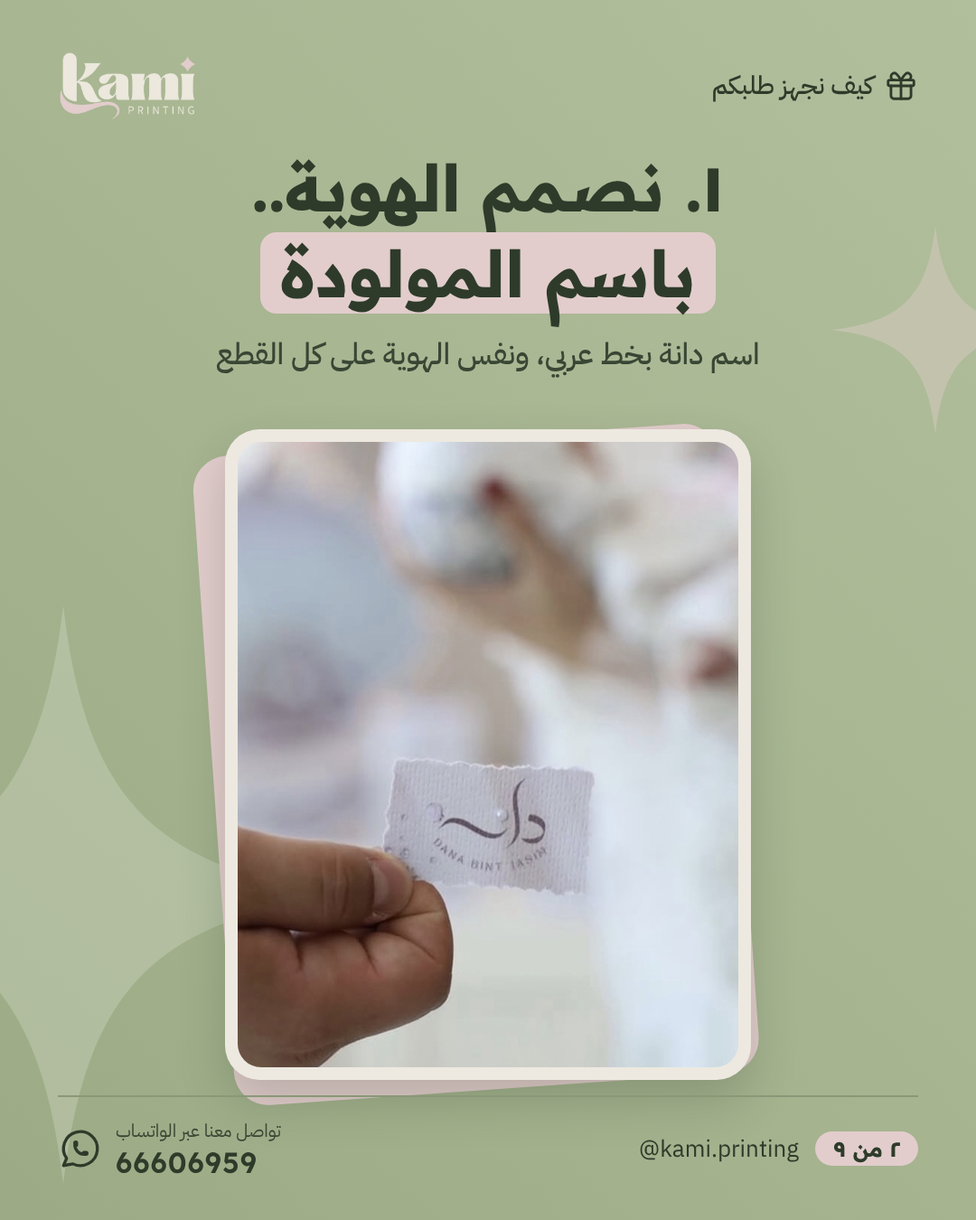
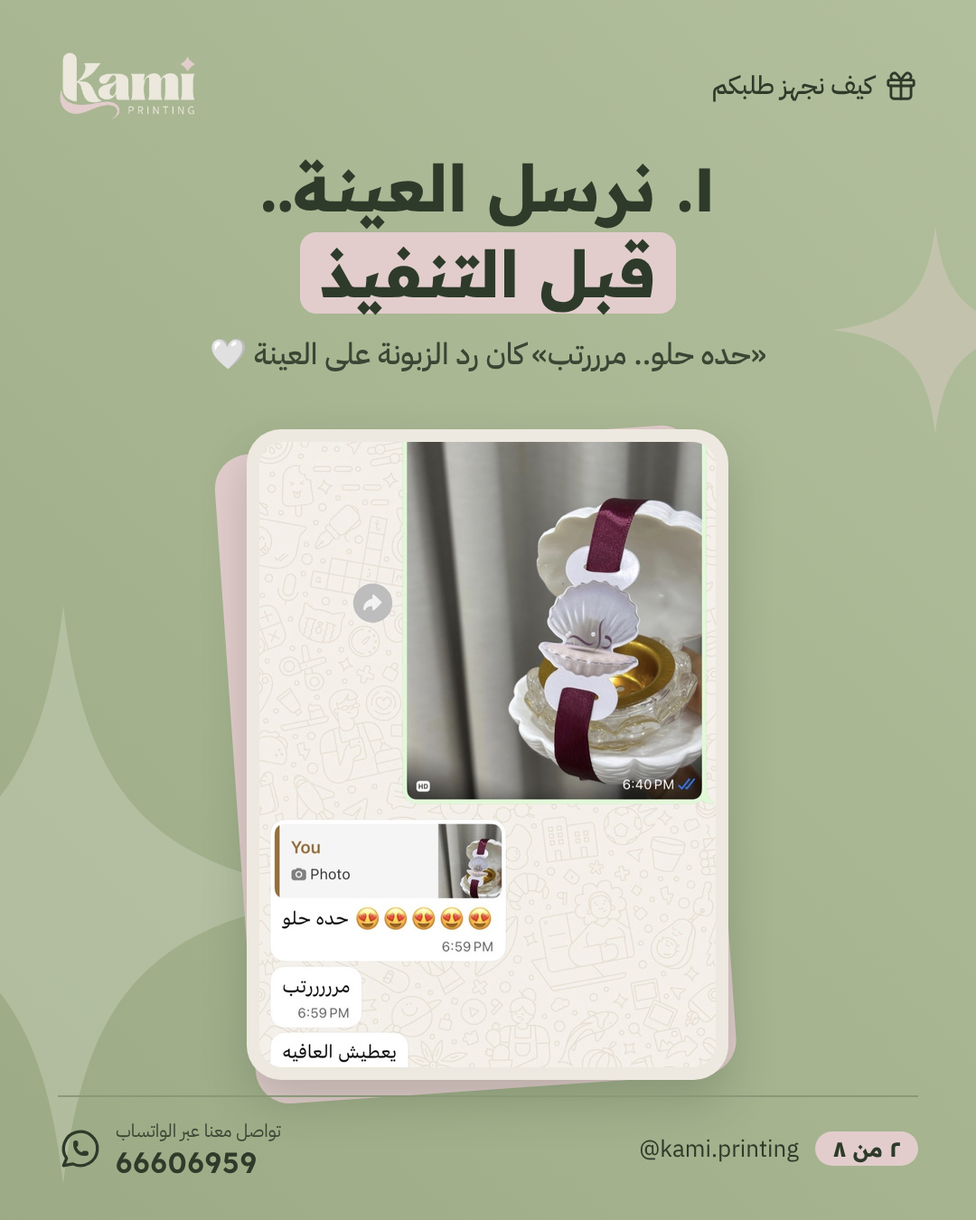
كيف نجهز طلبكم تعديل 2: بدون سلايد الهوية
Claude-Session: https://claude.ai/code/session_01EDga3ExHWSoRVjSYima4hU

Changed region(s): [[0.1833, 0.3422, 0.7944, 0.9022], [0.2139, 0.1244, 0.7944, 0.3111]]

diff --git a/templates/works-how-dana.html b/templates/works-how-dana.html
@@ -43,44 +43,39 @@ h1{font-size:72px}
   <div class="card" style="left:249px;top:455px;width:582px;height:720px"></div>
   <div class="frame" style="left:249px;top:455px;width:582px;height:720px"><img src="photos/works/dana-shell-fit.jpg"></div>
   <div class="swipe">اسحبوا ←</div><footer><div class="fw"><svg viewBox="0 0 24 24" fill="none" stroke="currentColor" stroke-width="1.6" stroke-linecap="round" stroke-linejoin="round">
-<path d="M3 21l1.65-3.8a9 9 0 1 1 3.4 2.9L3 21"/><path d="M9 10a.5.5 0 0 0 1 0V9a.5.5 0 0 0-1 0v1a5 5 0 0 0 5 5h1a.5.5 0 0 0 0-1h-1a.5.5 0 0 0 0 1"/></svg><div><small>تواصل معنا عبر الواتساب</small><b>66606959</b></div></div><div class="fr"><span class="h">@kami.printing</span><span class="cnt">١ من ٩</span></div></footer></section><section class="post" id="how-02"><svg class="st st1" viewBox="0 0 100 100"><path d="M50 0 C54 34 66 46 100 50 C66 54 54 66 50 100 C46 66 34 54 0 50 C34 46 46 34 50 0Z"/></svg><svg class="st st2" viewBox="0 0 100 100"><path d="M50 0 C54 34 66 46 100 50 C66 54 54 66 50 100 C46 66 34 54 0 50 C34 46 46 34 50 0Z"/></svg><header><img src="../brand/logo-en-cream.png"><div class="chip"><svg viewBox="0 0 24 24" fill="none" stroke="currentColor" stroke-width="1.8" stroke-linecap="round" stroke-linejoin="round"><rect x="3" y="8" width="18" height="4" rx="1"/><path d="M12 8v13"/><path d="M19 12v7a2 2 0 0 1-2 2H7a2 2 0 0 1-2-2v-7"/><path d="M7.5 8a2.5 2.5 0 0 1 0-5C9 3 12 8 12 8s3-5 4.5-5a2.5 2.5 0 0 1 0 5"/></svg><span>كيف نجهز طلبكم</span></div></header>
-  <div class="txt"><h1>١. نصمم الهوية..<br><span class="hl">باسم المولودة</span></h1><div class="cap">اسم دانة بخط عربي، ونفس الهوية على كل القطع</div></div>
-  <div class="card" style="left:249px;top:475px;width:582px;height:720px"></div>
-  <div class="frame" style="left:249px;top:475px;width:582px;height:720px"><img src="photos/works/dana-tag-fit.jpg"></div>
-  <footer><div class="fw"><svg viewBox="0 0 24 24" fill="none" stroke="currentColor" stroke-width="1.6" stroke-linecap="round" stroke-linejoin="round">
-<path d="M3 21l1.65-3.8a9 9 0 1 1 3.4 2.9L3 21"/><path d="M9 10a.5.5 0 0 0 1 0V9a.5.5 0 0 0-1 0v1a5 5 0 0 0 5 5h1a.5.5 0 0 0 0-1h-1a.5.5 0 0 0 0 1"/></svg><div><small>تواصل معنا عبر الواتساب</small><b>66606959</b></div></div><div class="fr"><span class="h">@kami.printing</span><span class="cnt">٢ من ٩</span></div></footer></section><section class="post" id="how-03"><svg class="st st1" viewBox="0 0 100 100"><path d="M50 0 C54 34 66 46 100 50 C66 54 54 66 50 100 C46 66 34 54 0 50 C34 46 46 34 50 0Z"/></svg><svg class="st st2" viewBox="0 0 100 100"><path d="M50 0 C54 34 66 46 100 50 C66 54 54 66 50 100 C46 66 34 54 0 50 C34 46 46 34 50 0Z"/></svg><header><img src="../brand/logo-en-cream.png"><div class="chip"><svg viewBox="0 0 24 24" fill="none" stroke="currentColor" stroke-width="1.8" stroke-linecap="round" stroke-linejoin="round"><rect x="3" y="8" width="18" height="4" rx="1"/><path d="M12 8v13"/><path d="M19 12v7a2 2 0 0 1-2 2H7a2 2 0 0 1-2-2v-7"/><path d="M7.5 8a2.5 2.5 0 0 1 0-5C9 3 12 8 12 8s3-5 4.5-5a2.5 2.5 0 0 1 0 5"/></svg><span>كيف نجهز طلبكم</span></div></header>
-  <div class="txt"><h1>٢. نرسل العينة..<br><span class="hl">قبل التنفيذ</span></h1><div class="cap">«حده حلو.. مرررتب» كان رد الزبونة على العينة 🤍</div></div>
+<path d="M3 21l1.65-3.8a9 9 0 1 1 3.4 2.9L3 21"/><path d="M9 10a.5.5 0 0 0 1 0V9a.5.5 0 0 0-1 0v1a5 5 0 0 0 5 5h1a.5.5 0 0 0 0-1h-1a.5.5 0 0 0 0 1"/></svg><div><small>تواصل معنا عبر الواتساب</small><b>66606959</b></div></div><div class="fr"><span class="h">@kami.printing</span><span class="cnt">١ من ٨</span></div></footer></section><section class="post" id="how-02"><svg class="st st1" viewBox="0 0 100 100"><path d="M50 0 C54 34 66 46 100 50 C66 54 54 66 50 100 C46 66 34 54 0 50 C34 46 46 34 50 0Z"/></svg><svg class="st st2" viewBox="0 0 100 100"><path d="M50 0 C54 34 66 46 100 50 C66 54 54 66 50 100 C46 66 34 54 0 50 C34 46 46 34 50 0Z"/></svg><header><img src="../brand/logo-en-cream.png"><div class="chip"><svg viewBox="0 0 24 24" fill="none" stroke="currentColor" stroke-width="1.8" stroke-linecap="round" stroke-linejoin="round"><rect x="3" y="8" width="18" height="4" rx="1"/><path d="M12 8v13"/><path d="M19 12v7a2 2 0 0 1-2 2H7a2 2 0 0 1-2-2v-7"/><path d="M7.5 8a2.5 2.5 0 0 1 0-5C9 3 12 8 12 8s3-5 4.5-5a2.5 2.5 0 0 1 0 5"/></svg><span>كيف نجهز طلبكم</span></div></header>
+  <div class="txt"><h1>١. نرسل العينة..<br><span class="hl">قبل التنفيذ</span></h1><div class="cap">«حده حلو.. مرررتب» كان رد الزبونة على العينة 🤍</div></div>
   <div class="card" style="left:273px;top:475px;width:533px;height:720px"></div>
   <div class="frame" style="left:273px;top:475px;width:533px;height:720px"><img src="photos/works/dana-whatsapp-fit.jpg"></div>
   <footer><div class="fw"><svg viewBox="0 0 24 24" fill="none" stroke="currentColor" stroke-width="1.6" stroke-linecap="round" stroke-linejoin="round">
-<path d="M3 21l1.65-3.8a9 9 0 1 1 3.4 2.9L3 21"/><path d="M9 10a.5.5 0 0 0 1 0V9a.5.5 0 0 0-1 0v1a5 5 0 0 0 5 5h1a.5.5 0 0 0 0-1h-1a.5.5 0 0 0 0 1"/></svg><div><small>تواصل معنا عبر الواتساب</small><b>66606959</b></div></div><div class="fr"><span class="h">@kami.printing</span><span class="cnt">٣ من ٩</span></div></footer></section><section class="post" id="how-04"><svg class="st st1" viewBox="0 0 100 100"><path d="M50 0 C54 34 66 46 100 50 C66 54 54 66 50 100 C46 66 34 54 0 50 C34 46 46 34 50 0Z"/></svg><svg class="st st2" viewBox="0 0 100 100"><path d="M50 0 C54 34 66 46 100 50 C66 54 54 66 50 100 C46 66 34 54 0 50 C34 46 46 34 50 0Z"/></svg><header><img src="../brand/logo-en-cream.png"><div class="chip"><svg viewBox="0 0 24 24" fill="none" stroke="currentColor" stroke-width="1.8" stroke-linecap="round" stroke-linejoin="round"><rect x="3" y="8" width="18" height="4" rx="1"/><path d="M12 8v13"/><path d="M19 12v7a2 2 0 0 1-2 2H7a2 2 0 0 1-2-2v-7"/><path d="M7.5 8a2.5 2.5 0 0 1 0-5C9 3 12 8 12 8s3-5 4.5-5a2.5 2.5 0 0 1 0 5"/></svg><span>كيف نجهز طلبكم</span></div></header>
-  <div class="txt"><h1>٣. نطبع ونقص..<br><span class="hl">بالكريكت</span></h1><div class="cap">تاقات على شكل المحارة، مقصوصة بدقة</div></div>
+<path d="M3 21l1.65-3.8a9 9 0 1 1 3.4 2.9L3 21"/><path d="M9 10a.5.5 0 0 0 1 0V9a.5.5 0 0 0-1 0v1a5 5 0 0 0 5 5h1a.5.5 0 0 0 0-1h-1a.5.5 0 0 0 0 1"/></svg><div><small>تواصل معنا عبر الواتساب</small><b>66606959</b></div></div><div class="fr"><span class="h">@kami.printing</span><span class="cnt">٢ من ٨</span></div></footer></section><section class="post" id="how-03"><svg class="st st1" viewBox="0 0 100 100"><path d="M50 0 C54 34 66 46 100 50 C66 54 54 66 50 100 C46 66 34 54 0 50 C34 46 46 34 50 0Z"/></svg><svg class="st st2" viewBox="0 0 100 100"><path d="M50 0 C54 34 66 46 100 50 C66 54 54 66 50 100 C46 66 34 54 0 50 C34 46 46 34 50 0Z"/></svg><header><img src="../brand/logo-en-cream.png"><div class="chip"><svg viewBox="0 0 24 24" fill="none" stroke="currentColor" stroke-width="1.8" stroke-linecap="round" stroke-linejoin="round"><rect x="3" y="8" width="18" height="4" rx="1"/><path d="M12 8v13"/><path d="M19 12v7a2 2 0 0 1-2 2H7a2 2 0 0 1-2-2v-7"/><path d="M7.5 8a2.5 2.5 0 0 1 0-5C9 3 12 8 12 8s3-5 4.5-5a2.5 2.5 0 0 1 0 5"/></svg><span>كيف نجهز طلبكم</span></div></header>
+  <div class="txt"><h1>٢. نطبع ونقص..<br><span class="hl">بالكريكت</span></h1><div class="cap">تاقات على شكل المحارة، مقصوصة بدقة</div></div>
   <div class="card" style="left:249px;top:475px;width:582px;height:720px"></div>
   <div class="frame" style="left:249px;top:475px;width:582px;height:720px"><img src="photos/works/dana-cutting-fit.jpg"></div>
   <footer><div class="fw"><svg viewBox="0 0 24 24" fill="none" stroke="currentColor" stroke-width="1.6" stroke-linecap="round" stroke-linejoin="round">
-<path d="M3 21l1.65-3.8a9 9 0 1 1 3.4 2.9L3 21"/><path d="M9 10a.5.5 0 0 0 1 0V9a.5.5 0 0 0-1 0v1a5 5 0 0 0 5 5h1a.5.5 0 0 0 0-1h-1a.5.5 0 0 0 0 1"/></svg><div><small>تواصل معنا عبر الواتساب</small><b>66606959</b></div></div><div class="fr"><span class="h">@kami.printing</span><span class="cnt">٤ من ٩</span></div></footer></section><section class="post" id="how-05"><svg class="st st1" viewBox="0 0 100 100"><path d="M50 0 C54 34 66 46 100 50 C66 54 54 66 50 100 C46 66 34 54 0 50 C34 46 46 34 50 0Z"/></svg><svg class="st st2" viewBox="0 0 100 100"><path d="M50 0 C54 34 66 46 100 50 C66 54 54 66 50 100 C46 66 34 54 0 50 C34 46 46 34 50 0Z"/></svg><header><img src="../brand/logo-en-cream.png"><div class="chip"><svg viewBox="0 0 24 24" fill="none" stroke="currentColor" stroke-width="1.8" stroke-linecap="round" stroke-linejoin="round"><rect x="3" y="8" width="18" height="4" rx="1"/><path d="M12 8v13"/><path d="M19 12v7a2 2 0 0 1-2 2H7a2 2 0 0 1-2-2v-7"/><path d="M7.5 8a2.5 2.5 0 0 1 0-5C9 3 12 8 12 8s3-5 4.5-5a2.5 2.5 0 0 1 0 5"/></svg><span>كيف نجهز طلبكم</span></div></header>
-  <div class="txt"><h1>٤. نركّب يدوي..<br><span class="hl">قطعة قطعة</span></h1><div class="cap">كل تاق يدخل فيه الشريط باليد</div></div>
+<path d="M3 21l1.65-3.8a9 9 0 1 1 3.4 2.9L3 21"/><path d="M9 10a.5.5 0 0 0 1 0V9a.5.5 0 0 0-1 0v1a5 5 0 0 0 5 5h1a.5.5 0 0 0 0-1h-1a.5.5 0 0 0 0 1"/></svg><div><small>تواصل معنا عبر الواتساب</small><b>66606959</b></div></div><div class="fr"><span class="h">@kami.printing</span><span class="cnt">٣ من ٨</span></div></footer></section><section class="post" id="how-04"><svg class="st st1" viewBox="0 0 100 100"><path d="M50 0 C54 34 66 46 100 50 C66 54 54 66 50 100 C46 66 34 54 0 50 C34 46 46 34 50 0Z"/></svg><svg class="st st2" viewBox="0 0 100 100"><path d="M50 0 C54 34 66 46 100 50 C66 54 54 66 50 100 C46 66 34 54 0 50 C34 46 46 34 50 0Z"/></svg><header><img src="../brand/logo-en-cream.png"><div class="chip"><svg viewBox="0 0 24 24" fill="none" stroke="currentColor" stroke-width="1.8" stroke-linecap="round" stroke-linejoin="round"><rect x="3" y="8" width="18" height="4" rx="1"/><path d="M12 8v13"/><path d="M19 12v7a2 2 0 0 1-2 2H7a2 2 0 0 1-2-2v-7"/><path d="M7.5 8a2.5 2.5 0 0 1 0-5C9 3 12 8 12 8s3-5 4.5-5a2.5 2.5 0 0 1 0 5"/></svg><span>كيف نجهز طلبكم</span></div></header>
+  <div class="txt"><h1>٣. نركّب يدوي..<br><span class="hl">قطعة قطعة</span></h1><div class="cap">كل تاق يدخل فيه الشريط باليد</div></div>
   <div class="card" style="left:249px;top:475px;width:581px;height:720px"></div>
   <div class="frame" style="left:249px;top:475px;width:581px;height:720px"><img src="photos/works/dana-ribbons-fit.jpg"></div>
   <footer><div class="fw"><svg viewBox="0 0 24 24" fill="none" stroke="currentColor" stroke-width="1.6" stroke-linecap="round" stroke-linejoin="round">
-<path d="M3 21l1.65-3.8a9 9 0 1 1 3.4 2.9L3 21"/><path d="M9 10a.5.5 0 0 0 1 0V9a.5.5 0 0 0-1 0v1a5 5 0 0 0 5 5h1a.5.5 0 0 0 0-1h-1a.5.5 0 0 0 0 1"/></svg><div><small>تواصل معنا عبر الواتساب</small><b>66606959</b></div></div><div class="fr"><span class="h">@kami.printing</span><span class="cnt">٥ من ٩</span></div></footer></section><section class="post" id="how-06"><svg class="st st1" viewBox="0 0 100 100"><path d="M50 0 C54 34 66 46 100 50 C66 54 54 66 50 100 C46 66 34 54 0 50 C34 46 46 34 50 0Z"/></svg><svg class="st st2" viewBox="0 0 100 100"><path d="M50 0 C54 34 66 46 100 50 C66 54 54 66 50 100 C46 66 34 54 0 50 C34 46 46 34 50 0Z"/></svg><header><img src="../brand/logo-en-cream.png"><div class="chip"><svg viewBox="0 0 24 24" fill="none" stroke="currentColor" stroke-width="1.8" stroke-linecap="round" stroke-linejoin="round"><rect x="3" y="8" width="18" height="4" rx="1"/><path d="M12 8v13"/><path d="M19 12v7a2 2 0 0 1-2 2H7a2 2 0 0 1-2-2v-7"/><path d="M7.5 8a2.5 2.5 0 0 1 0-5C9 3 12 8 12 8s3-5 4.5-5a2.5 2.5 0 0 1 0 5"/></svg><span>كيف نجهز طلبكم</span></div></header>
-  <div class="txt"><h1>٥. نكمّل التفاصيل..<br><span class="hl">بعبارتكم</span></h1><div class="cap">«أنا أول فرحة لماما وبابا» على ورق بحواف مقصوصة</div></div>
+<path d="M3 21l1.65-3.8a9 9 0 1 1 3.4 2.9L3 21"/><path d="M9 10a.5.5 0 0 0 1 0V9a.5.5 0 0 0-1 0v1a5 5 0 0 0 5 5h1a.5.5 0 0 0 0-1h-1a.5.5 0 0 0 0 1"/></svg><div><small>تواصل معنا عبر الواتساب</small><b>66606959</b></div></div><div class="fr"><span class="h">@kami.printing</span><span class="cnt">٤ من ٨</span></div></footer></section><section class="post" id="how-05"><svg class="st st1" viewBox="0 0 100 100"><path d="M50 0 C54 34 66 46 100 50 C66 54 54 66 50 100 C46 66 34 54 0 50 C34 46 46 34 50 0Z"/></svg><svg class="st st2" viewBox="0 0 100 100"><path d="M50 0 C54 34 66 46 100 50 C66 54 54 66 50 100 C46 66 34 54 0 50 C34 46 46 34 50 0Z"/></svg><header><img src="../brand/logo-en-cream.png"><div class="chip"><svg viewBox="0 0 24 24" fill="none" stroke="currentColor" stroke-width="1.8" stroke-linecap="round" stroke-linejoin="round"><rect x="3" y="8" width="18" height="4" rx="1"/><path d="M12 8v13"/><path d="M19 12v7a2 2 0 0 1-2 2H7a2 2 0 0 1-2-2v-7"/><path d="M7.5 8a2.5 2.5 0 0 1 0-5C9 3 12 8 12 8s3-5 4.5-5a2.5 2.5 0 0 1 0 5"/></svg><span>كيف نجهز طلبكم</span></div></header>
+  <div class="txt"><h1>٤. نكمّل التفاصيل..<br><span class="hl">بعبارتكم</span></h1><div class="cap">«أنا أول فرحة لماما وبابا» على ورق بحواف مقصوصة</div></div>
   <div class="card" style="left:249px;top:475px;width:582px;height:720px"></div>
   <div class="frame" style="left:249px;top:475px;width:582px;height:720px"><img src="photos/works/dana-note-fit.jpg"></div>
   <footer><div class="fw"><svg viewBox="0 0 24 24" fill="none" stroke="currentColor" stroke-width="1.6" stroke-linecap="round" stroke-linejoin="round">
-<path d="M3 21l1.65-3.8a9 9 0 1 1 3.4 2.9L3 21"/><path d="M9 10a.5.5 0 0 0 1 0V9a.5.5 0 0 0-1 0v1a5 5 0 0 0 5 5h1a.5.5 0 0 0 0-1h-1a.5.5 0 0 0 0 1"/></svg><div><small>تواصل معنا عبر الواتساب</small><b>66606959</b></div></div><div class="fr"><span class="h">@kami.printing</span><span class="cnt">٦ من ٩</span></div></footer></section><section class="post" id="how-07"><svg class="st st1" viewBox="0 0 100 100"><path d="M50 0 C54 34 66 46 100 50 C66 54 54 66 50 100 C46 66 34 54 0 50 C34 46 46 34 50 0Z"/></svg><svg class="st st2" viewBox="0 0 100 100"><path d="M50 0 C54 34 66 46 100 50 C66 54 54 66 50 100 C46 66 34 54 0 50 C34 46 46 34 50 0Z"/></svg><header><img src="../brand/logo-en-cream.png"><div class="chip"><svg viewBox="0 0 24 24" fill="none" stroke="currentColor" stroke-width="1.8" stroke-linecap="round" stroke-linejoin="round"><rect x="3" y="8" width="18" height="4" rx="1"/><path d="M12 8v13"/><path d="M19 12v7a2 2 0 0 1-2 2H7a2 2 0 0 1-2-2v-7"/><path d="M7.5 8a2.5 2.5 0 0 1 0-5C9 3 12 8 12 8s3-5 4.5-5a2.5 2.5 0 0 1 0 5"/></svg><span>كيف نجهز طلبكم</span></div></header>
-  <div class="txt"><h1>٦. نغلّف ونرتب..<br><span class="hl">حبة حبة</span></h1><div class="cap">علب شفافة، وكل توزيعة بمكانها</div></div>
+<path d="M3 21l1.65-3.8a9 9 0 1 1 3.4 2.9L3 21"/><path d="M9 10a.5.5 0 0 0 1 0V9a.5.5 0 0 0-1 0v1a5 5 0 0 0 5 5h1a.5.5 0 0 0 0-1h-1a.5.5 0 0 0 0 1"/></svg><div><small>تواصل معنا عبر الواتساب</small><b>66606959</b></div></div><div class="fr"><span class="h">@kami.printing</span><span class="cnt">٥ من ٨</span></div></footer></section><section class="post" id="how-06"><svg class="st st1" viewBox="0 0 100 100"><path d="M50 0 C54 34 66 46 100 50 C66 54 54 66 50 100 C46 66 34 54 0 50 C34 46 46 34 50 0Z"/></svg><svg class="st st2" viewBox="0 0 100 100"><path d="M50 0 C54 34 66 46 100 50 C66 54 54 66 50 100 C46 66 34 54 0 50 C34 46 46 34 50 0Z"/></svg><header><img src="../brand/logo-en-cream.png"><div class="chip"><svg viewBox="0 0 24 24" fill="none" stroke="currentColor" stroke-width="1.8" stroke-linecap="round" stroke-linejoin="round"><rect x="3" y="8" width="18" height="4" rx="1"/><path d="M12 8v13"/><path d="M19 12v7a2 2 0 0 1-2 2H7a2 2 0 0 1-2-2v-7"/><path d="M7.5 8a2.5 2.5 0 0 1 0-5C9 3 12 8 12 8s3-5 4.5-5a2.5 2.5 0 0 1 0 5"/></svg><span>كيف نجهز طلبكم</span></div></header>
+  <div class="txt"><h1>٥. نغلّف ونرتب..<br><span class="hl">حبة حبة</span></h1><div class="cap">علب شفافة، وكل توزيعة بمكانها</div></div>
   <div class="card" style="left:249px;top:475px;width:582px;height:720px"></div>
   <div class="frame" style="left:249px;top:475px;width:582px;height:720px"><img src="photos/works/dana-boxed-fit.jpg"></div>
   <footer><div class="fw"><svg viewBox="0 0 24 24" fill="none" stroke="currentColor" stroke-width="1.6" stroke-linecap="round" stroke-linejoin="round">
-<path d="M3 21l1.65-3.8a9 9 0 1 1 3.4 2.9L3 21"/><path d="M9 10a.5.5 0 0 0 1 0V9a.5.5 0 0 0-1 0v1a5 5 0 0 0 5 5h1a.5.5 0 0 0 0-1h-1a.5.5 0 0 0 0 1"/></svg><div><small>تواصل معنا عبر الواتساب</small><b>66606959</b></div></div><div class="fr"><span class="h">@kami.printing</span><span class="cnt">٧ من ٩</span></div></footer></section><section class="post" id="how-08"><svg class="st st1" viewBox="0 0 100 100"><path d="M50 0 C54 34 66 46 100 50 C66 54 54 66 50 100 C46 66 34 54 0 50 C34 46 46 34 50 0Z"/></svg><svg class="st st2" viewBox="0 0 100 100"><path d="M50 0 C54 34 66 46 100 50 C66 54 54 66 50 100 C46 66 34 54 0 50 C34 46 46 34 50 0Z"/></svg><header><img src="../brand/logo-en-cream.png"><div class="chip"><svg viewBox="0 0 24 24" fill="none" stroke="currentColor" stroke-width="1.8" stroke-linecap="round" stroke-linejoin="round"><rect x="3" y="8" width="18" height="4" rx="1"/><path d="M12 8v13"/><path d="M19 12v7a2 2 0 0 1-2 2H7a2 2 0 0 1-2-2v-7"/><path d="M7.5 8a2.5 2.5 0 0 1 0-5C9 3 12 8 12 8s3-5 4.5-5a2.5 2.5 0 0 1 0 5"/></svg><span>كيف نجهز طلبكم</span></div></header>
-  <div class="txt"><h1>٧. ويوم المناسبة..<br><span class="hl">كل شي جاهز</span></h1><div class="cap">علب دانة وتوزيعاتها على الطاولة</div></div>
+<path d="M3 21l1.65-3.8a9 9 0 1 1 3.4 2.9L3 21"/><path d="M9 10a.5.5 0 0 0 1 0V9a.5.5 0 0 0-1 0v1a5 5 0 0 0 5 5h1a.5.5 0 0 0 0-1h-1a.5.5 0 0 0 0 1"/></svg><div><small>تواصل معنا عبر الواتساب</small><b>66606959</b></div></div><div class="fr"><span class="h">@kami.printing</span><span class="cnt">٦ من ٨</span></div></footer></section><section class="post" id="how-07"><svg class="st st1" viewBox="0 0 100 100"><path d="M50 0 C54 34 66 46 100 50 C66 54 54 66 50 100 C46 66 34 54 0 50 C34 46 46 34 50 0Z"/></svg><svg class="st st2" viewBox="0 0 100 100"><path d="M50 0 C54 34 66 46 100 50 C66 54 54 66 50 100 C46 66 34 54 0 50 C34 46 46 34 50 0Z"/></svg><header><img src="../brand/logo-en-cream.png"><div class="chip"><svg viewBox="0 0 24 24" fill="none" stroke="currentColor" stroke-width="1.8" stroke-linecap="round" stroke-linejoin="round"><rect x="3" y="8" width="18" height="4" rx="1"/><path d="M12 8v13"/><path d="M19 12v7a2 2 0 0 1-2 2H7a2 2 0 0 1-2-2v-7"/><path d="M7.5 8a2.5 2.5 0 0 1 0-5C9 3 12 8 12 8s3-5 4.5-5a2.5 2.5 0 0 1 0 5"/></svg><span>كيف نجهز طلبكم</span></div></header>
+  <div class="txt"><h1>٦. ويوم المناسبة..<br><span class="hl">كل شي جاهز</span></h1><div class="cap">علب دانة وتوزيعاتها على الطاولة</div></div>
   <div class="card" style="left:246px;top:475px;width:588px;height:720px"></div>
   <div class="frame" style="left:246px;top:475px;width:588px;height:720px"><img src="photos/works/dana-display-fit.jpg"></div>
   <footer><div class="fw"><svg viewBox="0 0 24 24" fill="none" stroke="currentColor" stroke-width="1.6" stroke-linecap="round" stroke-linejoin="round">
-<path d="M3 21l1.65-3.8a9 9 0 1 1 3.4 2.9L3 21"/><path d="M9 10a.5.5 0 0 0 1 0V9a.5.5 0 0 0-1 0v1a5 5 0 0 0 5 5h1a.5.5 0 0 0 0-1h-1a.5.5 0 0 0 0 1"/></svg><div><small>تواصل معنا عبر الواتساب</small><b>66606959</b></div></div><div class="fr"><span class="h">@kami.printing</span><span class="cnt">٨ من ٩</span></div></footer></section><section class="post" id="how-09"><svg class="st st1" viewBox="0 0 100 100"><path d="M50 0 C54 34 66 46 100 50 C66 54 54 66 50 100 C46 66 34 54 0 50 C34 46 46 34 50 0Z"/></svg><svg class="st st2" viewBox="0 0 100 100"><path d="M50 0 C54 34 66 46 100 50 C66 54 54 66 50 100 C46 66 34 54 0 50 C34 46 46 34 50 0Z"/></svg><header><img src="../brand/logo-en-cream.png"><div class="chip"><svg viewBox="0 0 24 24" fill="none" stroke="currentColor" stroke-width="1.8" stroke-linecap="round" stroke-linejoin="round"><rect x="3" y="8" width="18" height="4" rx="1"/><path d="M12 8v13"/><path d="M19 12v7a2 2 0 0 1-2 2H7a2 2 0 0 1-2-2v-7"/><path d="M7.5 8a2.5 2.5 0 0 1 0-5C9 3 12 8 12 8s3-5 4.5-5a2.5 2.5 0 0 1 0 5"/></svg><span>كيف نجهز طلبكم</span></div></header>
+<path d="M3 21l1.65-3.8a9 9 0 1 1 3.4 2.9L3 21"/><path d="M9 10a.5.5 0 0 0 1 0V9a.5.5 0 0 0-1 0v1a5 5 0 0 0 5 5h1a.5.5 0 0 0 0-1h-1a.5.5 0 0 0 0 1"/></svg><div><small>تواصل معنا عبر الواتساب</small><b>66606959</b></div></div><div class="fr"><span class="h">@kami.printing</span><span class="cnt">٧ من ٨</span></div></footer></section><section class="post" id="how-08"><svg class="st st1" viewBox="0 0 100 100"><path d="M50 0 C54 34 66 46 100 50 C66 54 54 66 50 100 C46 66 34 54 0 50 C34 46 46 34 50 0Z"/></svg><svg class="st st2" viewBox="0 0 100 100"><path d="M50 0 C54 34 66 46 100 50 C66 54 54 66 50 100 C46 66 34 54 0 50 C34 46 46 34 50 0Z"/></svg><header><img src="../brand/logo-en-cream.png"><div class="chip"><svg viewBox="0 0 24 24" fill="none" stroke="currentColor" stroke-width="1.8" stroke-linecap="round" stroke-linejoin="round"><rect x="3" y="8" width="18" height="4" rx="1"/><path d="M12 8v13"/><path d="M19 12v7a2 2 0 0 1-2 2H7a2 2 0 0 1-2-2v-7"/><path d="M7.5 8a2.5 2.5 0 0 1 0-5C9 3 12 8 12 8s3-5 4.5-5a2.5 2.5 0 0 1 0 5"/></svg><span>كيف نجهز طلبكم</span></div></header>
   <div class="ctab"><svg class="spark" viewBox="0 0 100 100"><path d="M50 0 C54 34 66 46 100 50 C66 54 54 66 50 100 C46 66 34 54 0 50 C34 46 46 34 50 0Z"/></svg><h1>مناسبتكم الجاية..<br><span class="hl">نجهزها بنفس الاهتمام</span></h1>
   <div class="cap">أرسلوا التفاصيل على الواتساب 🤍</div><div class="wapill"><svg viewBox="0 0 24 24" fill="none" stroke="currentColor" stroke-width="1.6" stroke-linecap="round" stroke-linejoin="round">
 <path d="M3 21l1.65-3.8a9 9 0 1 1 3.4 2.9L3 21"/><path d="M9 10a.5.5 0 0 0 1 0V9a.5.5 0 0 0-1 0v1a5 5 0 0 0 5 5h1a.5.5 0 0 0 0-1h-1a.5.5 0 0 0 0 1"/></svg><span>66606959</span></div>
   <img class="arlogo" src="../brand/logo-ar-cream.png"></div><footer><div class="fw"><svg viewBox="0 0 24 24" fill="none" stroke="currentColor" stroke-width="1.6" stroke-linecap="round" stroke-linejoin="round">
-<path d="M3 21l1.65-3.8a9 9 0 1 1 3.4 2.9L3 21"/><path d="M9 10a.5.5 0 0 0 1 0V9a.5.5 0 0 0-1 0v1a5 5 0 0 0 5 5h1a.5.5 0 0 0 0-1h-1a.5.5 0 0 0 0 1"/></svg><div><small>تواصل معنا عبر الواتساب</small><b>66606959</b></div></div><div class="fr"><span class="h">@kami.printing</span><span class="cnt">٩ من ٩</span></div></footer></section></body></html>
+<path d="M3 21l1.65-3.8a9 9 0 1 1 3.4 2.9L3 21"/><path d="M9 10a.5.5 0 0 0 1 0V9a.5.5 0 0 0-1 0v1a5 5 0 0 0 5 5h1a.5.5 0 0 0 0-1h-1a.5.5 0 0 0 0 1"/></svg><div><small>تواصل معنا عبر الواتساب</small><b>66606959</b></div></div><div class="fr"><span class="h">@kami.printing</span><span class="cnt">٨ من ٨</span></div></footer></section></body></html>

diff --git a/templates/works_how_dana.py b/templates/works_how_dana.py
@@ -1,4 +1,4 @@
-"""«كيف نجهز طلبكم» تعديل 1: real order «دانة» step by step (9 slides). Same Kami look as works_carousels.py.
+"""«كيف نجهز طلبكم» تعديل 1: real order «دانة» step by step (8 slides, تعديل 2: بدون سلايد الهوية). Same Kami look as works_carousels.py.
   python3 templates/works_how_dana.py && PAGE=works-how-dana.html OUTDIR=out/how-dana node templates/render.js
 """
 import os
@@ -11,19 +11,18 @@ ns = g['ns']
 g['CROP'].update({'dana-ribbons': (0.8, 0.45), 'dana-whatsapp': (0.7, 0.0), 'dana-cutting': (0.8, 0.55),
                   'dana-note': (0.8, 0.3), 'dana-tag': (0.8, 0.6), 'dana-display': (0.8, 0.7), 'dana-boxed': (0.8, 0.5)})
 photo, cta, CSS, EXTRA = ns['photo'], ns['cta'], ns['CSS'], ns['EXTRA']
-TAG, N = 'كيف نجهز طلبكم', 9
+TAG, N = 'كيف نجهز طلبكم', 8
 S = [
  ('كيف نجهز طلبكم؟', 'طلب دانة من البداية', 'قصة طلب حقيقي، خطوة بخطوة ✦', 'dana-shell', True),
- ('١. نصمم الهوية..', 'باسم المولودة', 'اسم دانة بخط عربي، ونفس الهوية على كل القطع', 'dana-tag', False),
- ('٢. نرسل العينة..', 'قبل التنفيذ', '«حده حلو.. مرررتب» كان رد الزبونة على العينة 🤍', 'dana-whatsapp', False),
- ('٣. نطبع ونقص..', 'بالكريكت', 'تاقات على شكل المحارة، مقصوصة بدقة', 'dana-cutting', False),
- ('٤. نركّب يدوي..', 'قطعة قطعة', 'كل تاق يدخل فيه الشريط باليد', 'dana-ribbons', False),
- ('٥. نكمّل التفاصيل..', 'بعبارتكم', '«أنا أول فرحة لماما وبابا» على ورق بحواف مقصوصة', 'dana-note', False),
- ('٦. نغلّف ونرتب..', 'حبة حبة', 'علب شفافة، وكل توزيعة بمكانها', 'dana-boxed', False),
- ('٧. ويوم المناسبة..', 'كل شي جاهز', 'علب دانة وتوزيعاتها على الطاولة', 'dana-display', False),
+ ('١. نرسل العينة..', 'قبل التنفيذ', '«حده حلو.. مرررتب» كان رد الزبونة على العينة 🤍', 'dana-whatsapp', False),
+ ('٢. نطبع ونقص..', 'بالكريكت', 'تاقات على شكل المحارة، مقصوصة بدقة', 'dana-cutting', False),
+ ('٣. نركّب يدوي..', 'قطعة قطعة', 'كل تاق يدخل فيه الشريط باليد', 'dana-ribbons', False),
+ ('٤. نكمّل التفاصيل..', 'بعبارتكم', '«أنا أول فرحة لماما وبابا» على ورق بحواف مقصوصة', 'dana-note', False),
+ ('٥. نغلّف ونرتب..', 'حبة حبة', 'علب شفافة، وكل توزيعة بمكانها', 'dana-boxed', False),
+ ('٦. ويوم المناسبة..', 'كل شي جاهز', 'علب دانة وتوزيعاتها على الطاولة', 'dana-display', False),
 ]
 out = [photo('how', i, N, TAG, *s) for i, s in enumerate(S, 1)]
-out.append(cta('how', 9, N, TAG, 'مناسبتكم الجاية..', 'نجهزها بنفس الاهتمام', 'أرسلوا التفاصيل على الواتساب 🤍'))
+out.append(cta('how', 8, N, TAG, 'مناسبتكم الجاية..', 'نجهزها بنفس الاهتمام', 'أرسلوا التفاصيل على الواتساب 🤍'))
 page = f'''<!doctype html><html lang="ar" dir="rtl"><head><meta charset="utf-8"><title>Kami How Dana</title>
 <link href="https://fonts.googleapis.com/css2?family=Readex+Pro:wght@500;600;700&family=IBM+Plex+Sans+Arabic:wght@400;500;600&display=swap" rel="stylesheet">
 <style>{CSS}{EXTRA}</style></head><body>{''.join(out)}</body></html>'''

diff --git a/فهرس-التصاميم.md b/فهرس-التصاميم.md
@@ -213,7 +213,7 @@
 | 23 | `23-ريل-توزيعات-بالاسم` | ريل 17 ثانية: توزيعة المحار، هدية المعلمة، علبة الأقلام، فواصل البطيخ، وآخره «مناسبتكم.. نجهزها لكم». بدون صوت. البناء `bash video/works-reel-2/build.sh`. في الدرايف: `المشروع\من أعمالنا 2 - المدرسية والمواليد والثواب\` (مضغوط 2 ميقا، والمصدر في 3 zip + فيديو مقهى المعلمين مضغوط) |
 | 24 | `24-ليش-كامي` | كاروسيل ثقة 6 صور «ليش زباينا يرجعون لنا؟»: علب المحار، تصميم على فكرتكم، نطبع ونقص بأيدينا، على أي سطح (ستيكر الصلوات الشفاف)، كلام زباينا، و«جربونا.. وبتشوفون الفرق». المصدر `templates/works_trust.py`. في الدرايف: `المشروع\من أعمالنا 3 - الثقة والخبرة\` |
 | 25 | `25-مناسبات-كثيرة-وخبرة-وحدة` | بوست صورتين: كولاج 9 أعمال (مواليد، تخرج، ملكة، مدرسية، أعياد ميلاد، هدايا المعلمين، سفر، ضيافة، ستيكرات دينية)، وسلايد التواصل. في الدرايف: `المشروع\من أعمالنا 3 - الثقة والخبرة\` |
-| 26 | `26-كيف-نجهز-طلبكم` (آخر نسخة: تعديل 1) | كاروسيل 5 صور بخطوات الطلب: ترسلون الفكرة ونصممها، نطبع ونقص، نغلّف ونرتب حبة حبة، وسلايد التواصل. في الدرايف: `المشروع\من أعمالنا 3 - الثقة والخبرة\` تعديل 1: صار قصة طلب دانة الحقيقي خطوة بخطوة، 9 صور: الهوية باسم المولودة، العينة على الواتساب قبل التنفيذ، القص بالكريكت، التركيب يدوي بالشريط، القصاصة «أنا أول فرحة لماما وبابا»، التغليف، وطاولة المناسبة. المصدر `templates/works_how_dana.py`. في الدرايف: `من أعمالنا 3 - الثقة والخبرة\تعديل 1 - طلب دانة\` |
+| 26 | `26-كيف-نجهز-طلبكم` (آخر نسخة: تعديل 2) | كاروسيل 5 صور بخطوات الطلب: ترسلون الفكرة ونصممها، نطبع ونقص، نغلّف ونرتب حبة حبة، وسلايد التواصل. في الدرايف: `المشروع\من أعمالنا 3 - الثقة والخبرة\` تعديل 1: صار قصة طلب دانة الحقيقي خطوة بخطوة، 9 صور: الهوية باسم المولودة، العينة على الواتساب قبل التنفيذ، القص بالكريكت، التركيب يدوي بالشريط، القصاصة «أنا أول فرحة لماما وبابا»، التغليف، وطاولة المناسبة. المصدر `templates/works_how_dana.py`. في الدرايف: `من أعمالنا 3 - الثقة والخبرة\تعديل 1 - طلب دانة\` تعديل 2: شلنا سلايد «نصمم الهوية» وصار 8 صور والخطوات مرقمة من ١ لين ٦. في الدرايف: `من أعمالنا 3 - الثقة والخبرة\تعديل 2 - بدون سلايد الهوية\` |
 | 27 | `27-ريل-خبرتنا` | ريل 16 ثانية: كرتون توزيعات بالجملة، ستيكر صلوات على ترمس، ستيكر على استكانة زجاج، علب المحار، شيتات الأسامي، وآخره «خبرتنا.. بين يدينكم». بدون صوت. البناء `bash video/works-reel-3/build.sh`. في الدرايف: `المشروع\من أعمالنا 3 - الثقة والخبرة\` (مضغوط 1.8 ميقا) |
 | 28 | `28-ريل-طلب-دانة` | ريل 16 ثانية لطلب دانة: التاق على المبخرة، الكريكت يقص التاقات، التركيب بالشريط، القصاصة، وتسكير كرتون التوزيعات، وآخره «مناسبتكم الجاية.. نجهزها لكم». بدون صوت. البناء `bash video/works-reel-4/build.sh`. في الدرايف: `المشروع\من أعمالنا 3 - الثقة والخبرة\تعديل 1 - طلب دانة\` (مضغوط 2.1 ميقا) |
 | — | أمثلة توزيعات (للتجربة) | مثالين رسمناهم بنفسنا (رندر، مو صور حقيقية) عشان نتأكد إننا فاهمين الأمثلة: 01 كرت قرقاعون مقصوص فيه ولد بقحفية وبنت ببخنق بدون ملامح، ماسكين «حلاوة»، و«قرقاعون عادت عليكم» و«من: الاسم». 02 نثور ملجة كرافت بشكل الدلة البحرينية، وفي بطنها فتحة للعملة، وتحت «ملجة سارة ومحمد». المصدر `templates/samples_favors.py`. في الدرايف: `المشروع\أمثلة توزيعات - قرقاعون ونثور ملجة\` |
@@ -267,6 +267,7 @@
 ## 7. سجل التعديلات
 | التاريخ | التصميم | التعديل | المجلد |
 |---|---|---|---|
+| 2026-11-24 | كيف نجهز طلبكم (تعديل 2) | شلنا سلايد «نصمم الهوية باسم المولودة»، والبوست صار 8 صور، وعدّلنا أرقام الخطوات والكابشن | `المشروع\من أعمالنا 3 - الثقة والخبرة\تعديل 2 - بدون سلايد الهوية\` |
 | 2026-11-24 | كيف نجهز طلبكم ← طلب دانة + ريل (تعديل 1) | البوست صار قصة طلب دانة الحقيقي من التصميم لين يوم المناسبة (9 صور)، وريل جديد من فيديو القص بالكريكت والتغليف، وحدثنا ترتيب النشر | `المشروع\من أعمالنا 3 - الثقة والخبرة\تعديل 1 - طلب دانة\` |
 | 2026-11-24 | من أعمالنا 3: بوستات الثقة والخبرة + ترتيب النشر (جديد) | رتبنا كل صور الشغل حسب النوع، وسوينا «ليش كامي؟» و«مناسبات كثيرة» و«كيف نجهز طلبكم» وريل «خبرتنا»، وخطة ترتيب نشر البوستات من 15 لين 27 مع التثبيت. سبايدرمان ما استخدمناه عشان حقوق الشخصية | `المشروع\من أعمالنا 3 - الثقة والخبرة\` + `instagram/خطة-نشر-الأعمال.md` |
 | 2026-11-24 | من أعمالنا 2: المدرسية والمواليد وآراء الزباين والثواب + ريل (جديد) | من الدفعة الثانية من صوركم: كاروسيل المدرسية (6)، مواليد وأعياد ميلاد (5)، آراء زباينا (2)، ستيكرات ثواب (2، الاسم مغبّش)، وريل «توزيعات بالاسم» 17 ثانية | `المشروع\من أعمالنا 2 - المدرسية والمواليد والثواب\` + `instagram/ready-to-post/19..23` |
@@ -368,9 +369,9 @@
 | ريل توزيعات بالاسم | `instagram/ready-to-post/23-ريل-توزيعات-بالاسم` | 1 فيديو · 1 نص | 2026-11-24 |
 | ليش كامي؟ | `instagram/ready-to-post/24-ليش-كامي` | 6 صورة · 1 نص | 2026-11-24 |
 | مناسبات كثيرة.. وخبرة وحدة | `instagram/ready-to-post/25-مناسبات-كثيرة-وخبرة-وحدة` | 2 صورة · 1 نص | 2026-11-24 |
-| كيف نجهز طلبكم | `instagram/ready-to-post/26-كيف-نجهز-طلبكم` | 14 صورة · 2 نص | 2026-11-24 (مو مرفوع) |
+| كيف نجهز طلبكم | `instagram/ready-to-post/26-كيف-نجهز-طلبكم` | 22 صورة · 3 نص | 2026-11-24 (مو مرفوع) |
 | ريل خبرتنا | `instagram/ready-to-post/27-ريل-خبرتنا` | 1 فيديو · 1 نص | 2026-11-24 |
-| ريل طلب دانة | `instagram/ready-to-post/28-ريل-طلب-دانة` | 1 فيديو · 1 نص | 2026-11-24 (مو مرفوع) |
+| ريل طلب دانة | `instagram/ready-to-post/28-ريل-طلب-دانة` | 1 فيديو · 1 نص | 2026-11-24 |
 | الكاروسيلات (30 سلايد) | `templates/out/carousels` | 30 صورة | 2026-11-14 |
 | بوستات الإطلاق | `templates/out/launch` | 16 صورة | 2026-11-13 |
 | كاروسيل التغليف | `templates/out/packaging` | 10 صورة | 2026-11-17 |
@@ -391,6 +392,6 @@
 | سلايدات من أعمالنا (المصدر) | `templates/out/works` | 14 صورة | 2026-11-24 |
 | سلايدات من أعمالنا 2 (المصدر) | `templates/out/works2` | 15 صورة | 2026-11-24 |
 | سلايدات الثقة والخبرة (المصدر) | `templates/out/trust` | 13 صورة | 2026-11-24 |
-| سلايدات كيف نجهز طلبكم - طلب دانة (المصدر) | `templates/out/how-dana` | 9 صورة | 2026-11-24 (مو مرفوع) |
+| سلايدات كيف نجهز طلبكم - طلب دانة (المصدر) | `templates/out/how-dana` | 8 صورة | 2026-11-24 (مو مرفوع) |
 
 <!-- AUTO:END -->

diff --git a/instagram/خطة-نشر-الأعمال.md b/instagram/خطة-نشر-الأعمال.md
@@ -15,13 +15,13 @@
 | 8 | `20-من-أعمالنا-مواليد-وأعياد-ميلاد` | كاروسيل | |
 | 9 | `23-ريل-توزيعات-بالاسم` | ريل | |
 | 10 | `17-من-أعمالنا-الملكة` | كاروسيل | |
-| 11 | `26-كيف-نجهز-طلبكم/تعديل 1` | كاروسيل 9 صور | طلب دانة خطوة بخطوة، يطمّن الزبون |
+| 11 | `26-كيف-نجهز-طلبكم/تعديل 2` | كاروسيل 8 صور | طلب دانة خطوة بخطوة، يطمّن الزبون |
 | 12 | `28-ريل-طلب-دانة` | ريل | نفس الطلب بالفيديو: القص والتركيب والتغليف |
 | 13 | `22-ستيكرات-ثواب` | صورتين | |
 | 14 | `24-ليش-كامي` | كاروسيل | آخر واحد عشان يكون أول شي يشوفونه |
 
 ## التثبيت (Pin)
-ثبّتوا: `24-ليش-كامي`، `21-آراء-زباينا`، `26-كيف-نجهز-طلبكم/تعديل 1`.
+ثبّتوا: `24-ليش-كامي`، `21-آراء-زباينا`، `26-كيف-نجهز-طلبكم/تعديل 2`.
 
 ## الوتيرة
 بوست كل يوم أو يوم ويوم. الريلات يبيلها صوت ترند من مكتبة إنستغرام وقت النشر.
